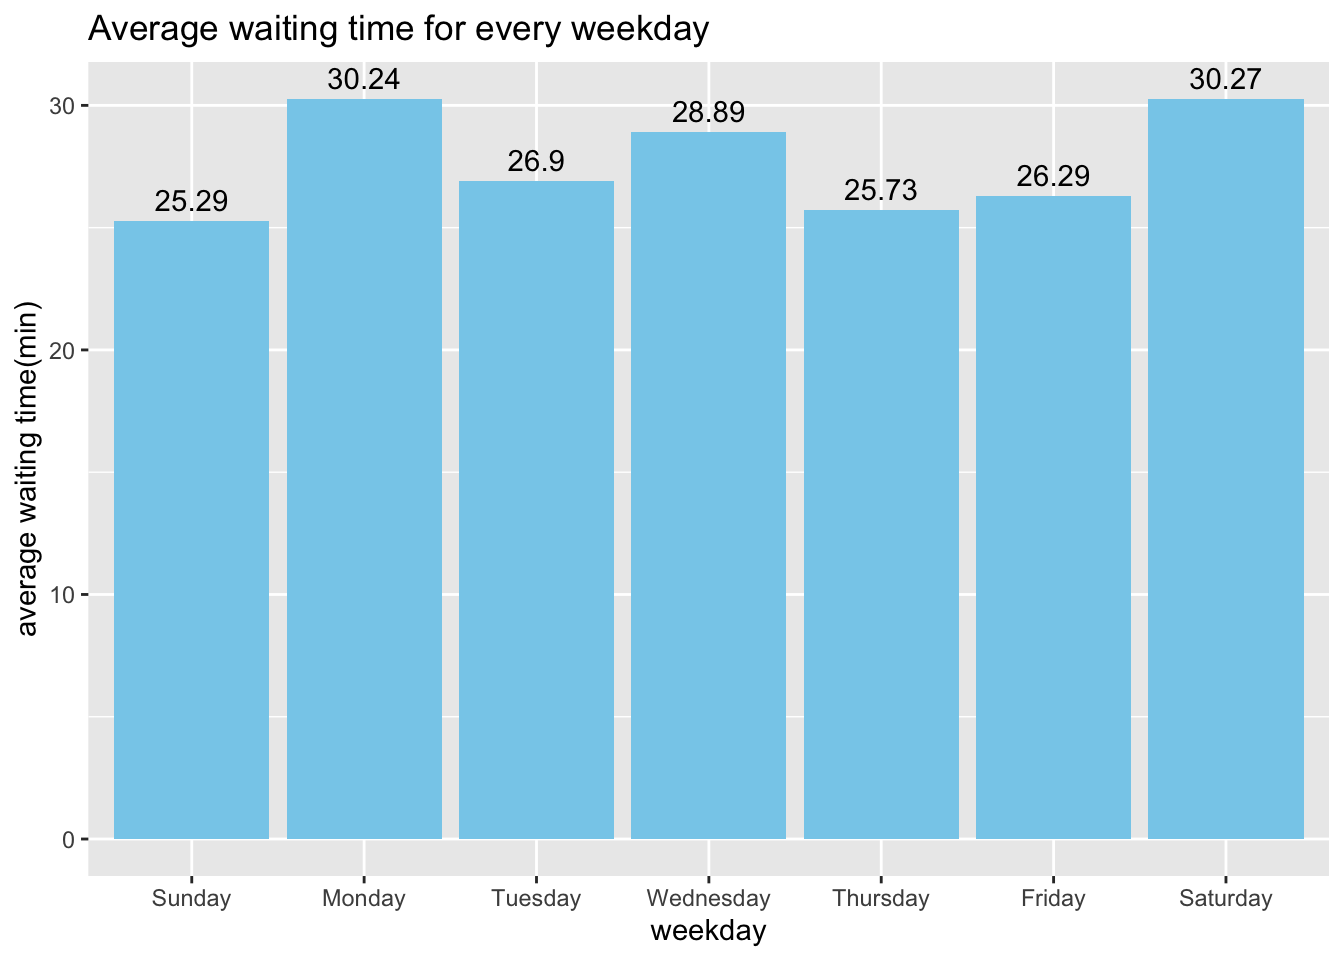
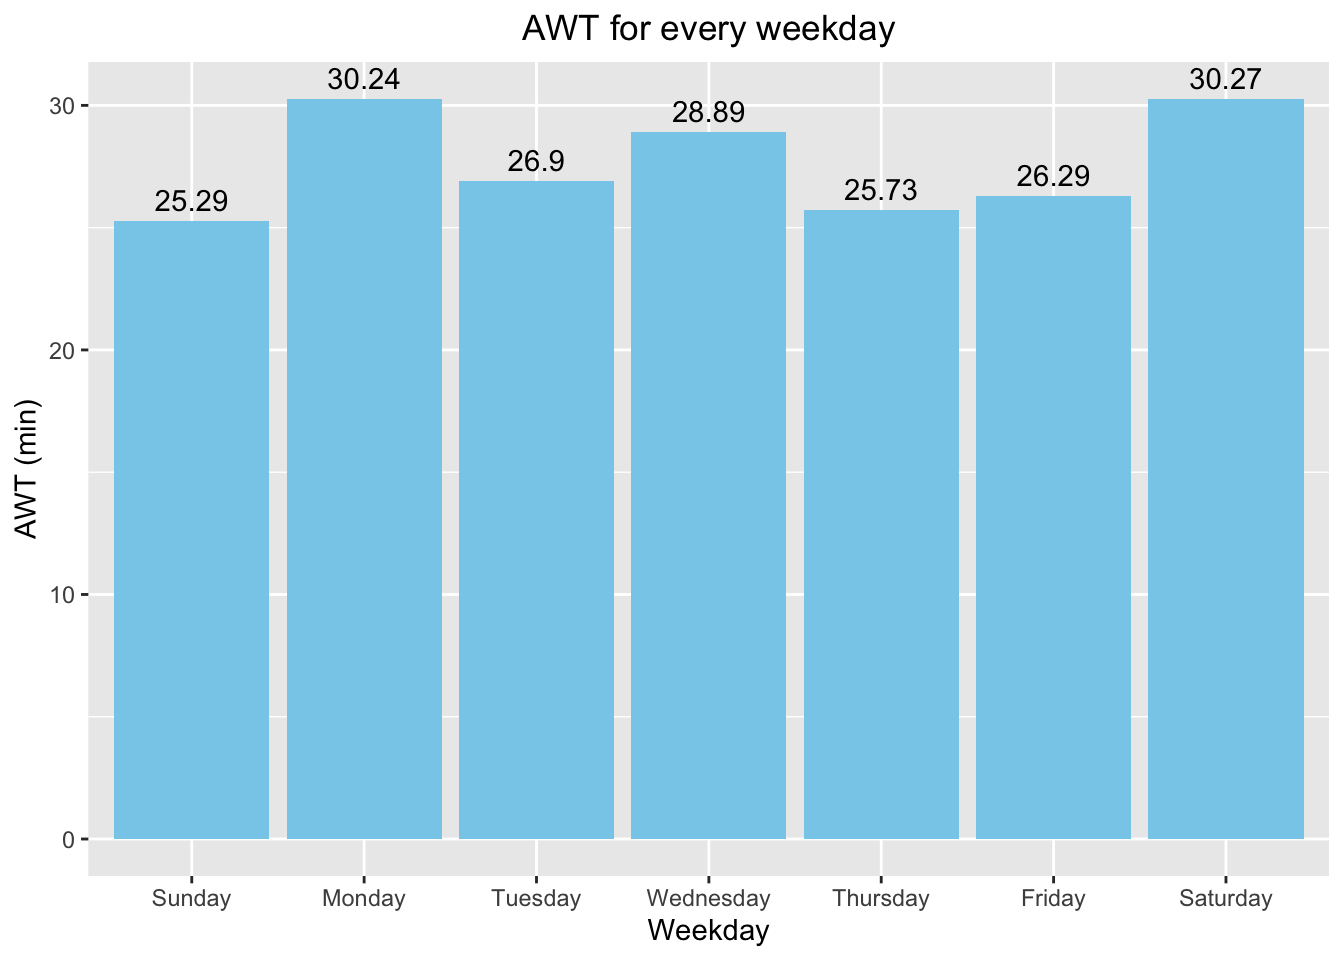
latest sync

Changed region(s): [[0.0625, 0.0, 0.6562, 0.0625], [0.0, 0.3125, 0.0312, 0.6562], [0.4688, 0.9375, 0.5938, 1.0]]

diff --git a/docs/results.html b/docs/results.html
@@ -104,7 +104,7 @@
 <li class="chapter" data-level="4.3" data-path="results.html"><a href="results.html#general-pattern-analysis---micro-level"><i class="fa fa-check"></i><b>4.3</b> General Pattern Analysis - Micro-Level</a>
 <ul>
 <li class="chapter" data-level="4.3.1" data-path="results.html"><a href="results.html#awt-vs.-days"><i class="fa fa-check"></i><b>4.3.1</b> AWT vs. Days</a></li>
-<li class="chapter" data-level="4.3.2" data-path="results.html"><a href="results.html#average-waiting-time-per-facility-per-weekday"><i class="fa fa-check"></i><b>4.3.2</b> Average Waiting Time per Facility per weekday</a></li>
+<li class="chapter" data-level="4.3.2" data-path="results.html"><a href="results.html#awt-vs.-weekday"><i class="fa fa-check"></i><b>4.3.2</b> AWT vs. Weekday</a></li>
 </ul></li>
 </ul></li>
 <li class="chapter" data-level="5" data-path="interactive-component.html"><a href="interactive-component.html"><i class="fa fa-check"></i><b>5</b> Interactive component</a>
@@ -312,7 +312,7 @@ The second reason is inherited from the internal nature of our dataset, where we
 <em>2020-04-01</em> and <em>2020-10-01</em> due to Disneyland’s closure; thus, it is reasonable to remove the data from whole year and use this year as a threshold.
 Based on our plots, here are the main observations:</p>
 <ul>
-<li><strong><em>Obs #1:</em></strong> There is a general trend of decreasing <em>AWT</em> for nearly all time periods in a year after COVID outbreak.<br />
+<li><strong><em>Obs #1:</em></strong> There is a trend of decreasing <em>AWT</em> for nearly all time periods in a year after COVID outbreak.<br />
 <strong><em>Exp:</em></strong> the concerns of public safety prevented many people from going out and travelling.</li>
 <li><strong><em>Obs #2:</em></strong> There exists outlier of the trend in <strong><em>Obs #1</em></strong>: in Christmas, the <em>AWT</em> is higher than before.<br />
 <strong><em>Exp:</em></strong> Recall our threshold for <em>After COVID</em> period is <em>2021-01-01</em> to <em>2022-01-01</em>, so in December 2022, there is already 1.5 years since
@@ -321,16 +321,27 @@ COVID’s outbreak so people’s life is getting back to normal.</li>
 <strong><em>Exp:</em></strong> Again, public safety concerns and schools reopening led to less tourists.</li>
 </ul>
 </div>
-<div id="average-waiting-time-per-facility-per-weekday" class="section level3 hasAnchor" number="4.3.2">
-<h3><span class="header-section-number">4.3.2</span> Average Waiting Time per Facility per weekday<a href="results.html#average-waiting-time-per-facility-per-weekday" class="anchor-section" aria-label="Anchor link to header"></a></h3>
+<div id="awt-vs.-weekday" class="section level3 hasAnchor" number="4.3.2">
+<h3><span class="header-section-number">4.3.2</span> AWT vs. Weekday<a href="results.html#awt-vs.-weekday" class="anchor-section" aria-label="Anchor link to header"></a></h3>
+<p>In the previous section, we move from a macro-level analysis to a micro-level analysis by focusing on each day
+in a year. Similarly, we can do one step further to examine the <em>AWT</em> for each day in a week in order to identify
+the patterns within a week.</p>
 <p><img src="finalproj_files/figure-html/unnamed-chunk-28-1.png" width="672" /></p>
-<p>The graph above shows the average waiting time per facility every weekday. We do expect Saturday has a relatively high waiting time before we start the project. On the other hand, surprisingly, Sunday has the shortest waiting time, while Monday’s and Wednesday’s waiting times are above average.</p>
-<div id="average-waiting-time-per-facility-per-weekday-before-and-after-covid-19" class="section level4 hasAnchor" number="4.3.2.1">
-<h4><span class="header-section-number">4.3.2.1</span> Average Waiting Time per Facility per weekday before and after Covid-19<a href="results.html#average-waiting-time-per-facility-per-weekday-before-and-after-covid-19" class="anchor-section" aria-label="Anchor link to header"></a></h4>
+<p>According to the plot above, here are the main observations:
+- <strong><em>Obs #1:</em></strong> We do expect <em>Saturday</em> has a relatively high waiting time before we start the project.
+- <strong><em>Obs #2:</em></strong> On the other hand, surprisingly, <em>Sunday</em> has the least <em>AWT</em>, while <em>AWT</em> of <em>Monday</em> and <em>Wednesday</em> are above average.
+- <strong><em>Obs #3:</em></strong> However, even though there are difference among each day in a week, the difference is not huge. The maximum difference is only about 5 minutes.</p>
+<p>Similarly, we can make plots to examine the patterns before and after COVID-19, and we sticked with the
+thresholds that we used in previous sections.</p>
 <p><img src="finalproj_files/figure-html/unnamed-chunk-30-1.png" width="672" /></p>
-<p>The graph above shows the waiting time every weekday before and after Covid. On every weekday, the average the less after Covid than before Covid. There was a tremendous drop on Saturday, and the waiting time dropped from 31.45 minutes per facility to 26.26 minutes. This indicates that for every two and half hours, the tourists can enjoy one more facility after the Covid than before.The tourists spend less time on waiting and enjoy more facilities after the Covid.</p>
+<p>The graph above showed that the <em>AWT</em> for each weekday before COVID-19 is lower than that after COVID-19.</p>
+<ul>
+<li><strong><em>Obs #1:</em></strong> By calculation, <em>AWT</em> dropped from 31.45 minutes to 26.26 minutes.
+This indicates that on average, for every 2.5 hours, the tourists can enjoy one more attraction after the Covid than before.
+<!-- The tourists spend less time on waiting and enjoy more facilities after the Covid. --></li>
+<li><strong><em>Obs #2:</em></strong> Similarly, the difference is still not huge among all weekdays, implying that weekday is not a huge factor that impacts people’s traveling plan to Disneyland.</li>
+</ul>
 
-</div>
 </div>
 </div>
 </div>

diff --git a/docs/404.html b/docs/404.html
@@ -104,7 +104,7 @@
 <li class="chapter" data-level="4.3" data-path="results.html"><a href="results.html#general-pattern-analysis---micro-level"><i class="fa fa-check"></i><b>4.3</b> General Pattern Analysis - Micro-Level</a>
 <ul>
 <li class="chapter" data-level="4.3.1" data-path="results.html"><a href="results.html#awt-vs.-days"><i class="fa fa-check"></i><b>4.3.1</b> AWT vs. Days</a></li>
-<li class="chapter" data-level="4.3.2" data-path="results.html"><a href="results.html#average-waiting-time-per-facility-per-weekday"><i class="fa fa-check"></i><b>4.3.2</b> Average Waiting Time per Facility per weekday</a></li>
+<li class="chapter" data-level="4.3.2" data-path="results.html"><a href="results.html#awt-vs.-weekday"><i class="fa fa-check"></i><b>4.3.2</b> AWT vs. Weekday</a></li>
 </ul></li>
 </ul></li>
 <li class="chapter" data-level="5" data-path="interactive-component.html"><a href="interactive-component.html"><i class="fa fa-check"></i><b>5</b> Interactive component</a>

diff --git a/docs/conclusion.html b/docs/conclusion.html
@@ -104,7 +104,7 @@
 <li class="chapter" data-level="4.3" data-path="results.html"><a href="results.html#general-pattern-analysis---micro-level"><i class="fa fa-check"></i><b>4.3</b> General Pattern Analysis - Micro-Level</a>
 <ul>
 <li class="chapter" data-level="4.3.1" data-path="results.html"><a href="results.html#awt-vs.-days"><i class="fa fa-check"></i><b>4.3.1</b> AWT vs. Days</a></li>
-<li class="chapter" data-level="4.3.2" data-path="results.html"><a href="results.html#average-waiting-time-per-facility-per-weekday"><i class="fa fa-check"></i><b>4.3.2</b> Average Waiting Time per Facility per weekday</a></li>
+<li class="chapter" data-level="4.3.2" data-path="results.html"><a href="results.html#awt-vs.-weekday"><i class="fa fa-check"></i><b>4.3.2</b> AWT vs. Weekday</a></li>
 </ul></li>
 </ul></li>
 <li class="chapter" data-level="5" data-path="interactive-component.html"><a href="interactive-component.html"><i class="fa fa-check"></i><b>5</b> Interactive component</a>

diff --git a/docs/data.html b/docs/data.html
@@ -104,7 +104,7 @@
 <li class="chapter" data-level="4.3" data-path="results.html"><a href="results.html#general-pattern-analysis---micro-level"><i class="fa fa-check"></i><b>4.3</b> General Pattern Analysis - Micro-Level</a>
 <ul>
 <li class="chapter" data-level="4.3.1" data-path="results.html"><a href="results.html#awt-vs.-days"><i class="fa fa-check"></i><b>4.3.1</b> AWT vs. Days</a></li>
-<li class="chapter" data-level="4.3.2" data-path="results.html"><a href="results.html#average-waiting-time-per-facility-per-weekday"><i class="fa fa-check"></i><b>4.3.2</b> Average Waiting Time per Facility per weekday</a></li>
+<li class="chapter" data-level="4.3.2" data-path="results.html"><a href="results.html#awt-vs.-weekday"><i class="fa fa-check"></i><b>4.3.2</b> AWT vs. Weekday</a></li>
 </ul></li>
 </ul></li>
 <li class="chapter" data-level="5" data-path="interactive-component.html"><a href="interactive-component.html"><i class="fa fa-check"></i><b>5</b> Interactive component</a>

diff --git a/docs/index.html b/docs/index.html
@@ -104,7 +104,7 @@
 <li class="chapter" data-level="4.3" data-path="results.html"><a href="results.html#general-pattern-analysis---micro-level"><i class="fa fa-check"></i><b>4.3</b> General Pattern Analysis - Micro-Level</a>
 <ul>
 <li class="chapter" data-level="4.3.1" data-path="results.html"><a href="results.html#awt-vs.-days"><i class="fa fa-check"></i><b>4.3.1</b> AWT vs. Days</a></li>
-<li class="chapter" data-level="4.3.2" data-path="results.html"><a href="results.html#average-waiting-time-per-facility-per-weekday"><i class="fa fa-check"></i><b>4.3.2</b> Average Waiting Time per Facility per weekday</a></li>
+<li class="chapter" data-level="4.3.2" data-path="results.html"><a href="results.html#awt-vs.-weekday"><i class="fa fa-check"></i><b>4.3.2</b> AWT vs. Weekday</a></li>
 </ul></li>
 </ul></li>
 <li class="chapter" data-level="5" data-path="interactive-component.html"><a href="interactive-component.html"><i class="fa fa-check"></i><b>5</b> Interactive component</a>

diff --git a/docs/interactive-component.html b/docs/interactive-component.html
@@ -104,7 +104,7 @@
 <li class="chapter" data-level="4.3" data-path="results.html"><a href="results.html#general-pattern-analysis---micro-level"><i class="fa fa-check"></i><b>4.3</b> General Pattern Analysis - Micro-Level</a>
 <ul>
 <li class="chapter" data-level="4.3.1" data-path="results.html"><a href="results.html#awt-vs.-days"><i class="fa fa-check"></i><b>4.3.1</b> AWT vs. Days</a></li>
-<li class="chapter" data-level="4.3.2" data-path="results.html"><a href="results.html#average-waiting-time-per-facility-per-weekday"><i class="fa fa-check"></i><b>4.3.2</b> Average Waiting Time per Facility per weekday</a></li>
+<li class="chapter" data-level="4.3.2" data-path="results.html"><a href="results.html#awt-vs.-weekday"><i class="fa fa-check"></i><b>4.3.2</b> AWT vs. Weekday</a></li>
 </ul></li>
 </ul></li>
 <li class="chapter" data-level="5" data-path="interactive-component.html"><a href="interactive-component.html"><i class="fa fa-check"></i><b>5</b> Interactive component</a>

diff --git a/docs/proposal.html b/docs/proposal.html
@@ -104,7 +104,7 @@
 <li class="chapter" data-level="4.3" data-path="results.html"><a href="results.html#general-pattern-analysis---micro-level"><i class="fa fa-check"></i><b>4.3</b> General Pattern Analysis - Micro-Level</a>
 <ul>
 <li class="chapter" data-level="4.3.1" data-path="results.html"><a href="results.html#awt-vs.-days"><i class="fa fa-check"></i><b>4.3.1</b> AWT vs. Days</a></li>
-<li class="chapter" data-level="4.3.2" data-path="results.html"><a href="results.html#average-waiting-time-per-facility-per-weekday"><i class="fa fa-check"></i><b>4.3.2</b> Average Waiting Time per Facility per weekday</a></li>
+<li class="chapter" data-level="4.3.2" data-path="results.html"><a href="results.html#awt-vs.-weekday"><i class="fa fa-check"></i><b>4.3.2</b> AWT vs. Weekday</a></li>
 </ul></li>
 </ul></li>
 <li class="chapter" data-level="5" data-path="interactive-component.html"><a href="interactive-component.html"><i class="fa fa-check"></i><b>5</b> Interactive component</a>
